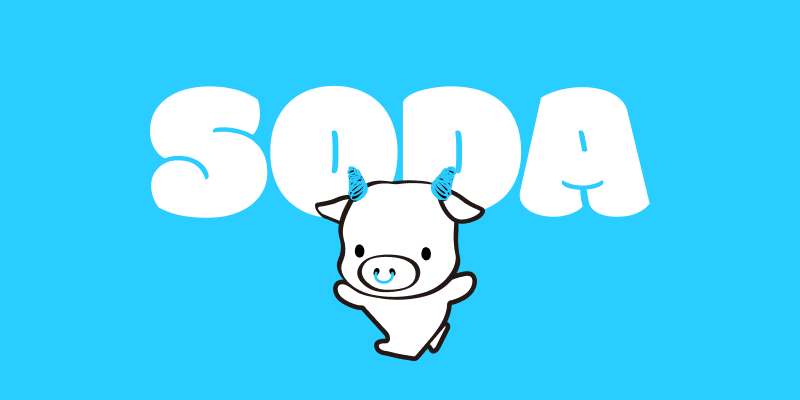
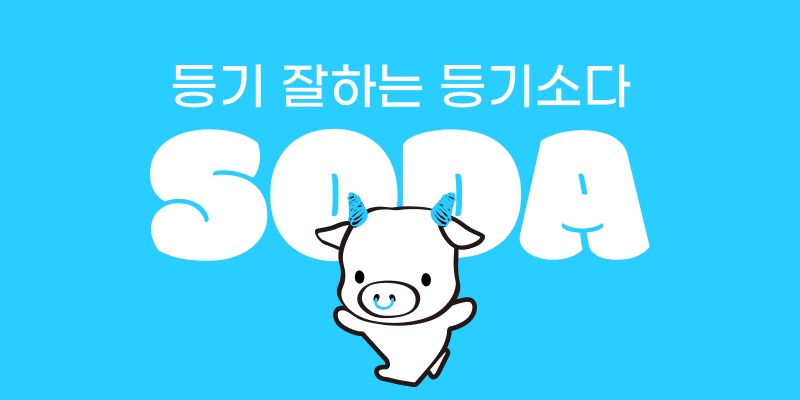
og content 변경

Changed region(s): [[0.1875, 0.15, 0.8125, 0.99]]

diff --git a/nuxt.config.ts b/nuxt.config.ts
@@ -23,7 +23,7 @@ export default defineNuxtConfig({
 				{
 					name: 'og:title',
 					property: 'og:title',
-					content: '등기소다',
+					content: '등기 잘하는 등기소다',
 				},
 				{
 					name: 'og:url',
@@ -33,7 +33,7 @@ export default defineNuxtConfig({
 				{
 					name: 'og:description',
 					property: 'og:description',
-					content: '부동산 등기를 위한 법무사 매칭, 등기소다',
+					content: '아는사람 찾지말고 등기는 등기소다',
 				},
 				{
 					name: 'og:image',
